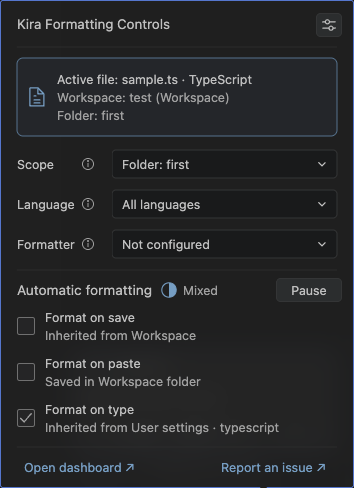
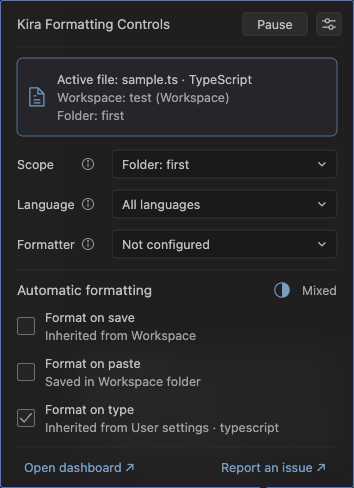
feat: refine status card header for v0.9.0

diff --git a/test/unit/status-hover.ts b/test/unit/status-hover.ts
@@ -194,10 +194,15 @@ test("status and pause/resume reserve identical geometry and preserve truthful e
     assert.equal(art.pause.height, art.settings.height);
     assert.doesNotMatch(art.summary.svg, /<rect\b/);
     assert.equal(
-      art.summary.width + art.summaryGap.width + art.pause.width,
+      art.header.width +
+        art.pause.width +
+        art.headerGap.width +
+        art.settings.width,
       art.context.width,
-      "The status and button fit the fixed card width without shifting",
+      "The title, action and Settings fit the fixed header width without shifting",
     );
+    assert.equal(art.summary.width, art.context.width);
+    assert.match(art.summary.svg, /x="325"[^>]*text-anchor="end"/);
   }
   assert.match(variants[4]?.summary.alt ?? "", /Disabled/);
   assert.match(variants[5]?.summary.alt ?? "", /Mixed/);
@@ -240,7 +245,10 @@ test("actions have no tooltip while keeping their labels and click targets", () 
       rows[0] ?? "",
       /alt="Kira Formatting Controls".*alt="Open VS Code Settings"/,
     );
-    assert.doesNotMatch(rows[0] ?? "", /alt="(?:Pause|Resume)"/);
+    assert.match(
+      rows[0] ?? "",
+      /alt="(?:Pause|Resume)".*alt="Open VS Code Settings"/,
+    );
     assert.doesNotMatch(rows[0] ?? "", /alt="Automatic formatting:/);
     const pauseIndex = rows.findIndex((row) =>
       row.includes(`alt="${paused ? "Resume" : "Pause"}"`),
@@ -248,17 +256,17 @@ test("actions have no tooltip while keeping their labels and click targets", () 
     assert.ok(
       pauseIndex < rows.findIndex((row) => row.includes("Format on type:")),
     );
-    assert.equal(pauseIndex, 5);
+    assert.equal(pauseIndex, 0);
     const statusIndex = rows.findIndex((row) =>
       row.includes("Automatic formatting: Mixed."),
     );
     assert.equal(statusIndex, 5);
     assert.doesNotMatch(rows[1] ?? "", /Automatic formatting: Mixed/);
-    assert.equal(pauseIndex, statusIndex);
+    assert.doesNotMatch(rows[statusIndex] ?? "", /<a\b/);
     assert.match(
       rows[statusIndex] ?? "",
       /^<td colspan="2"><img[^>]*alt="Automatic formatting: Mixed\."/,
-      "The heading remains unlinked; only the Pause/Resume button is linked",
+      "The full-width formatting heading and status remain unlinked",
     );
     for (const row of rows.filter((row) => /alt="Active file:/.test(row)))
       assert.doesNotMatch(row, /<a\b/);
@@ -384,7 +392,9 @@ test("heading status icons distinguish every flag combination while context keep
       assert.equal(art.summary.alt, `Automatic formatting: ${expected}.`);
       assert.match(
         art.summary.svg,
-        new RegExp(`x="171" y="14"[^>]*>${expected}</text>`),
+        new RegExp(
+          `x="325" y="14"[^>]*text-anchor="end"[^>]*>${expected}</text>`,
+        ),
       );
       assert.match(art.summary.svg, /r="7.2"/);
       assert.match(art.context.svg, /data-icon="file-text"/);

diff --git a/shared/status-artwork.ts b/shared/status-artwork.ts
@@ -273,8 +273,8 @@ export const statusArtwork = (
   // Preserve the approved heading width across fallback fonts.
   const formattingHeading =
     `<text x="5" y="14" dominant-baseline="central" font-size="13.5" textLength="135" lengthAdjust="spacingAndGlyphs" fill="${p.fg}">Automatic formatting</text>` +
-    statusGlyph(157, 14) +
-    centeredText(171, 14, state, 12.5, p.muted);
+    statusGlyph(width - 19 - labelWidth(state), 14) +
+    centeredText(width - 5, 14, state, 12.5, p.muted, "end");
   const flagContents = ["save", "paste", "type"]
     .map((label, i) => {
       const y = i * 46;
@@ -409,8 +409,9 @@ export const statusArtwork = (
       36,
       centeredText(5, 18, "Kira Formatting Controls", 13.5),
       "Kira Formatting Controls",
-      220,
+      230,
     ),
+    headerGap: image(24, "", "", 8),
     context: image(
       76 + contextExtraHeight,
       line(1) +
@@ -445,15 +446,14 @@ export const statusArtwork = (
       28,
       formattingHeading,
       `Automatic formatting: ${state}.`,
-      254,
+      width,
     ),
     summary: image(
       28,
       formattingHeading,
       `Automatic formatting: ${state}.`,
-      254,
+      width,
     ),
-    summaryGap: image(28, "", "", 10),
     formatting: image(
       134,
       flagContents,

diff --git a/shared/status-hover.ts b/shared/status-hover.ts
@@ -42,7 +42,9 @@ export const statusHover = (
     ? `<a href="${link("pause")}">${image(art.pause)}</a>`
     : image(art.pause);
   return `<table width="${art.context.width}"><colgroup><col width="${art.header.width}"><col width="${art.context.width - art.header.width}"></colgroup><tbody>${[
-    `<tr><td>${image(art.header)}</td><td align="right"><a href="command:workbench.action.openSettings?${encodeURIComponent(JSON.stringify(["editor.formatOn"]))}">${image(art.settings)}</a></td></tr>`,
+    fullRow(
+      `${image(art.header)}${pause}${image(art.headerGap)}<a href="command:workbench.action.openSettings?${encodeURIComponent(JSON.stringify(["editor.formatOn"]))}">${image(art.settings)}</a>`,
+    ),
     fullRow(image(art.context)),
     fullRow(
       `${image(art.scopeLabel)}${image(art.scopeInfo)}${image(art.fieldGap)}${image(art.scopeValue)}`,
@@ -53,7 +55,7 @@ export const statusHover = (
     fullRow(
       `${image(art.formatterLabel)}${image(art.formatterInfo)}${image(art.formatterGap)}${image(art.formatterValue)}`,
     ),
-    fullRow(`${image(art.summary)}${image(art.summaryGap)}${pause}`),
+    fullRow(image(art.summary)),
     fullRow(image(art.formatting)),
     ...(context.diagnostic
       ? [

diff --git a/test/status.ts b/test/status.ts
@@ -548,13 +548,14 @@ export const reviewStatus = async (
     `Automatic formatting has balanced padding (${formattingTopGap}px above, ${formattingBottomGap}px below)`,
   );
   assert.ok(
-    Math.abs(center(pauseBounds) - center(summaryBounds)) <= 1,
-    "Pause aligns with Automatic formatting and its status",
+    Math.abs(center(pauseBounds) - center(headerBounds)) <= 1,
+    "Pause aligns with the header and Settings",
   );
   assert.ok(
-    pauseBounds.x >= summaryBounds.x + summaryBounds.width + 8 &&
-      pauseBounds.x + pauseBounds.width <= hovered.x + hovered.width,
-    "Pause stays to the right of the status with a clear unlinked gap",
+    pauseBounds.x >= headerBounds.x + headerBounds.width &&
+      settingsBounds.x >= pauseBounds.x + pauseBounds.width + 7 &&
+      settingsBounds.x + settingsBounds.width <= hovered.x + hovered.width,
+    "Pause stays before Settings with a clear unlinked gap",
   );
   const scopeBounds = await scopes.boundingBox();
   assert.ok(contextBounds && scopeBounds);

diff --git a/docs/status-controls.md b/docs/status-controls.md
@@ -2,7 +2,7 @@
 
 Hover and click open the same anchored card above the Formatting status-bar item. Click focuses and pins it; Escape dismisses it. Enter on the focused status item opens it. A normal status click creates neither a docked Panel view nor an editor tab.
 
-The padded header shows **Kira Formatting Controls** and a two-slider Settings icon inside a fixed 26px by 24px box. A blue status icon and Enabled/Disabled/Mixed label sit beside Automatic formatting, with text-only Pause/Resume on the right of the same row. A text-document icon identifies the file section. The status bar shows ON when at least one formatting trigger is enabled and OFF when all three are disabled. Version details remain in the Extensions listing. The app icon appears in that listing; the card has no app logo. The package ID remains `rajudhami.formatting-controls`.
+The padded header shows **Kira Formatting Controls**, text-only Pause/Resume and a two-slider Settings icon inside a fixed 26px by 24px box. Pause/Resume sits immediately before Settings at the same height. A blue status icon and Enabled/Disabled/Mixed label align together at the right of Automatic formatting. A text-document icon identifies the file section. The status bar shows ON when at least one formatting trigger is enabled and OFF when all three are disabled. Version details remain in the Extensions listing. The app icon appears in that listing; the card has no app logo. The package ID remains `rajudhami.formatting-controls`.
 
 ![Anchored formatting controls](assets/status-card-dark.png)
 
@@ -57,7 +57,7 @@ Read-only dropdowns use standard outlined fields with normal text and arrows. Ch
 
 VS Code's public `StatusBarItem.tooltip` accepts Markdown, images and command links; arbitrary form styling is sanitized. Locally generated inert SVG images preserve the approved layout, with native links for actions and hover-only titles for field information icons and shortened context labels. No scripts, external images, rendering network calls or rendering files are used.
 
-The content width stays at 330px (approximately 354px including the native hover frame and insets). Each file, workspace and folder label stays on its own line; long names use an ellipsis rather than widening or wrapping the card. The title and section heading use 13.5px regular text and body/control text 12.5px. The text-document icon is vertically centered on the left, with the former right-hand status column returned to file/workspace text. The state icon and Enabled/Disabled/Mixed label are centered beside Automatic formatting. Conservative font-width allowances keep labels within their wider column, including wide letters and emoji. The Scope, Language and Formatter rows retain 28px outlined fields. Formatting rows retain the 46px rhythm and neutral outlined checkboxes. The text-only Pause/Resume button sits at the right of the Automatic formatting row, separated from the unlinked summary by a 10px gutter. Both labels use identical 66px by 24px dimensions and the Settings button’s height. Pause is neutral gray; Resume has a soft blue background with the same foreground text. Both keep their native picker flow without hover tooltips. The footer retains separate 139px and 133px borderless hit areas, separated by an unlinked 58px gutter.
+The content width stays at 330px (approximately 354px including the native hover frame and insets). Each file, workspace and folder label stays on its own line; long names use an ellipsis rather than widening or wrapping the card. The title and section heading use 13.5px regular text and body/control text 12.5px. The text-document icon is vertically centered on the left, with the former right-hand status column returned to file/workspace text. The state icon and Enabled/Disabled/Mixed label are vertically centered with Automatic formatting and right-aligned within that full-width row. Conservative font-width allowances keep labels within their wider column, including wide letters and emoji. The Scope, Language and Formatter rows retain 28px outlined fields. Formatting rows retain the 46px rhythm and neutral outlined checkboxes. The text-only Pause/Resume button sits in the header, separated from Settings by an unlinked 8px gutter. Both labels use identical 66px by 24px dimensions and the Settings button’s height. Pause is neutral gray; Resume has a soft blue background with the same foreground text. Both keep their native picker flow without hover tooltips. The footer retains separate 139px and 133px borderless hit areas, separated by an unlinked 58px gutter.
 
 Transparent artwork reveals the native hover surface. Dark, light, high-contrast and high-contrast-light palettes follow the theme kind; arbitrary custom theme colors/fonts are not available inside the image renderer. Native links follow the editor's own hover/focus styling. The public Markdown tooltip cannot reproduce Copilot's custom grey icon-button hover fill or enforce a custom hover underline. This limitation does not change layout or actions.
 

diff --git a/README.md b/README.md
@@ -12,7 +12,7 @@ Hover or click the status bar to open the same **Kira Formatting Controls** card
 
 ## What you can do
 
-- **Keep a clear summary at the status bar.** Read formatting, scope, source notes and formatter details. Pause/Resume appears to the right of Automatic formatting and preserves save actions. Formatting values remain read-only; long context names reveal their full labels on hover.
+- **Keep a clear summary at the status bar.** Read formatting, scope, source notes and formatter details. Pause/Resume appears in the header before Settings and preserves save actions. Formatting values remain read-only; long context names reveal their full labels on hover.
 - **Pause through native commands.** Pause/Resume opens a native picker before changing settings. The hover card closes first, avoiding live-update flicker. The same action is available from the Command Palette; Escape cancels it.
 - **See the effective state.** The status bar shows ON when any of Format on Save, Paste or Type is enabled and OFF when all three are disabled. The card distinguishes fully enabled, disabled and mixed settings.
 - **Choose where changes belong.** Write to User, Workspace, or a specific workspace folder. Select a VS Code language ID for language overrides.
@@ -107,7 +107,7 @@ Open the folder in VS Code and press **F5** to launch the Extension Development 
 bun run package
 ```
 
-In VS Code, run **Extensions: Install from VSIX…** and select `formatting-controls-0.8.0.vsix`. A successful GitHub Actions run also provides the VSIX artifact. No Marketplace credentials are required.
+In VS Code, run **Extensions: Install from VSIX…** and select `formatting-controls-0.9.0.vsix`. A successful GitHub Actions run also provides the VSIX artifact. No Marketplace credentials are required.
 
 ## Find your flow
 
@@ -125,7 +125,7 @@ Hover the status-bar item to open the anchored **Kira Formatting Controls** card
 
 The welcome page appears once on first activation. It introduces the workflow and links to settings, documentation, and GitHub; it does not apply a preset automatically.
 
-The blue status icon and label beside **Automatic formatting** summarize the three formatting triggers: a circled checkmark for **Enabled**, a circle minus for **Disabled**, and a half-filled circle for **Mixed**. The file box keeps its text-document icon and full text column without a duplicate state label. The status bar uses ON when any trigger is enabled and OFF when all are disabled; the card’s accessible description retains the three-state summary. Active-file labels use full language names. The card keeps a fixed 330px content width; exceptionally long names use ellipses, with full names available on hover. **Scope**, **Language** and **Formatter** appear above Automatic formatting. The text-only Pause/Resume button sits to the right of that heading, with Settings in the header; the footer opens the dashboard or a new GitHub issue. [Status-card details and API limits](docs/status-controls.md).
+The blue status icon and label align together at the right of **Automatic formatting** and summarize the three formatting triggers: a circled checkmark for **Enabled**, a circle minus for **Disabled**, and a half-filled circle for **Mixed**. The file box keeps its text-document icon and full text column without a duplicate state label. The status bar uses ON when any trigger is enabled and OFF when all are disabled; the card’s accessible description retains the three-state summary. Active-file labels use full language names. The card keeps a fixed 330px content width; exceptionally long names use ellipses, with full names available on hover. **Scope**, **Language** and **Formatter** appear above Automatic formatting. The text-only Pause/Resume button sits in the header immediately before Settings; the footer opens the dashboard or a new GitHub issue. The status-card screenshot below shows version 0.9.0. [Status-card details and API limits](docs/status-controls.md).
 
 ![Native formatting summary above the status bar in Dark Modern](docs/assets/status-card-dark.png)
 

diff --git a/CHANGELOG.md b/CHANGELOG.md
@@ -1,6 +1,11 @@
 # Changelog
 
-## 0.8.0 — Unreleased
+## 0.9.0 — Unreleased
+
+- Move Pause/Resume into the padded hover/click header immediately before Settings. Keep both buttons 24px tall and reserve the same width for Pause and Resume.
+- Right-align the formatting state icon and Enabled, Disabled or Mixed text together on the Automatic formatting row. Preserve the fixed card width, field information, source notes, warnings and native confirmation flow.
+
+## 0.8.0
 
 - Replace the extension icon with a transparent white-and-blue formatting-controls mark: indented lines and a slider. Use the same mark in the dashboard sidebar and loading view, adapting its foreground to the editor theme.
 - Show Enabled, Disabled or Mixed beside the status icon in the hover/click card. Move the text-only Pause/Resume button to the right of Automatic formatting, keeping its size, native picker flow and the card's fixed width unchanged.

diff --git a/docs/releasing.md b/docs/releasing.md
@@ -1,6 +1,6 @@
 # Release preparation
 
-Development version: 0.8.0. Display name: Kira Formatting Controls. Publisher: rajudhami. Identifier: rajudhami.formatting-controls. Node 24 LTS and Bun from packageManager are build tools; users do not need Bun to install the VSIX. VS Code supplies the extension-host runtime.
+Development version: 0.9.0. Display name: Kira Formatting Controls. Publisher: rajudhami. Identifier: rajudhami.formatting-controls. Node 24 LTS and Bun from packageManager are build tools; users do not need Bun to install the VSIX. VS Code supplies the extension-host runtime.
 
 ## Validate a candidate
 
